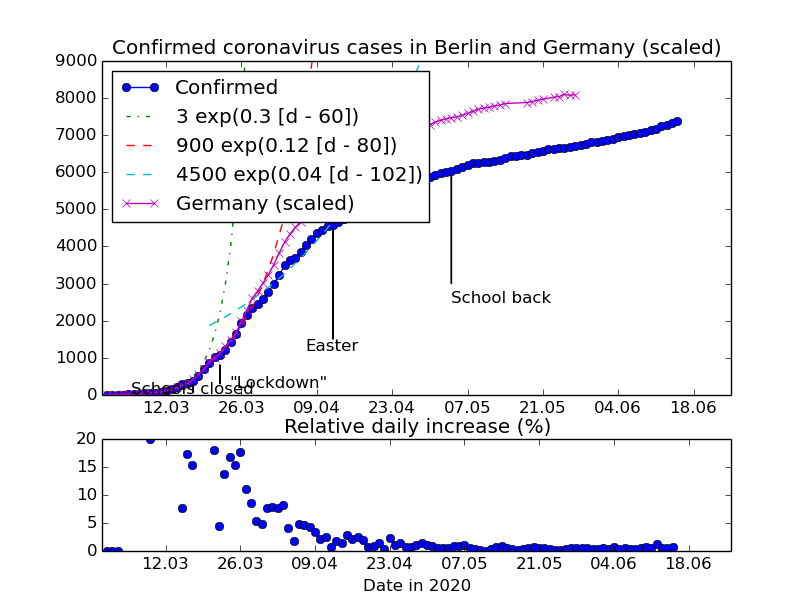
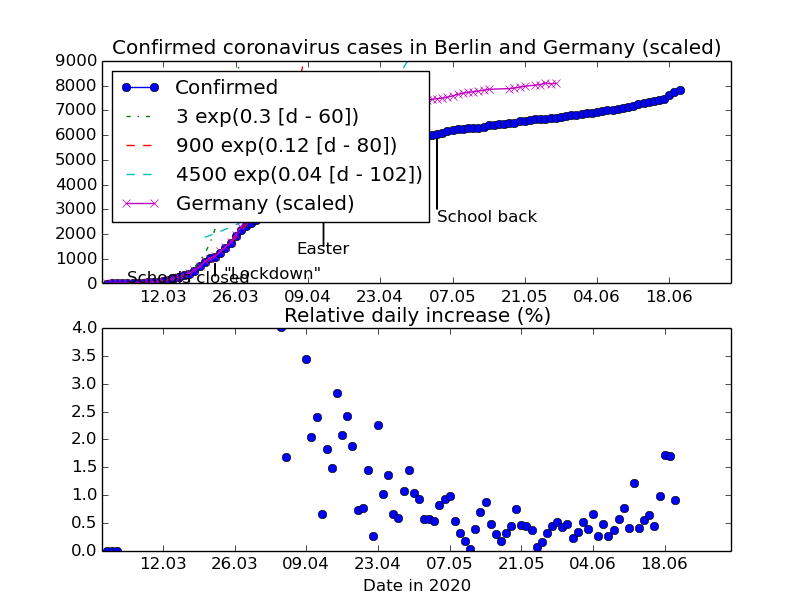
Update for 2020-06-20 and expand lower plot

diff --git a/plot.py b/plot.py
@@ -60,7 +60,7 @@ z_3 = A_3 * np.exp(r_3 * (doys_z3 - 102))
 print('On', horizon_datetime, 'predict', int(z_3[-1]))
 
 fig = plt.figure()
-gs = matplotlib.gridspec.GridSpec(nrows=2, ncols=1, height_ratios=[3,1])
+gs = matplotlib.gridspec.GridSpec(nrows=2, ncols=1, height_ratios=[1,1])
 
 myFmt = matplotlib.dates.DateFormatter('%d.%m')
 
@@ -110,7 +110,7 @@ ax1.xaxis.set_major_formatter(myFmt)
 
 ax1.plot(doys[0:]-1, rdelta[0:], 'bo')
 ax1.set_xlim([doys[0]-2, horizon])
-ax1.set_ylim([0, 20])
+ax1.set_ylim([0, 4])
 ax1.set_title('Relative daily increase (%)')
 plt.xlabel('Date in 2020')
 
